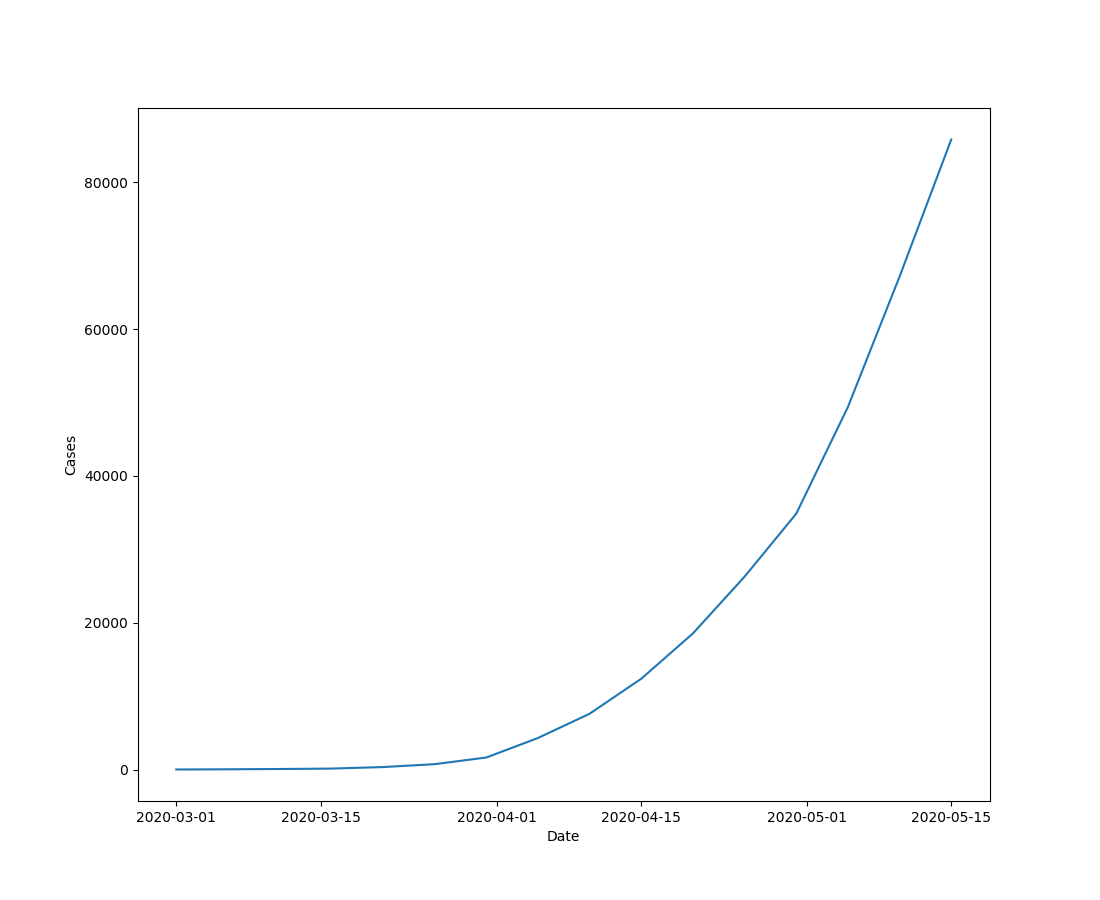
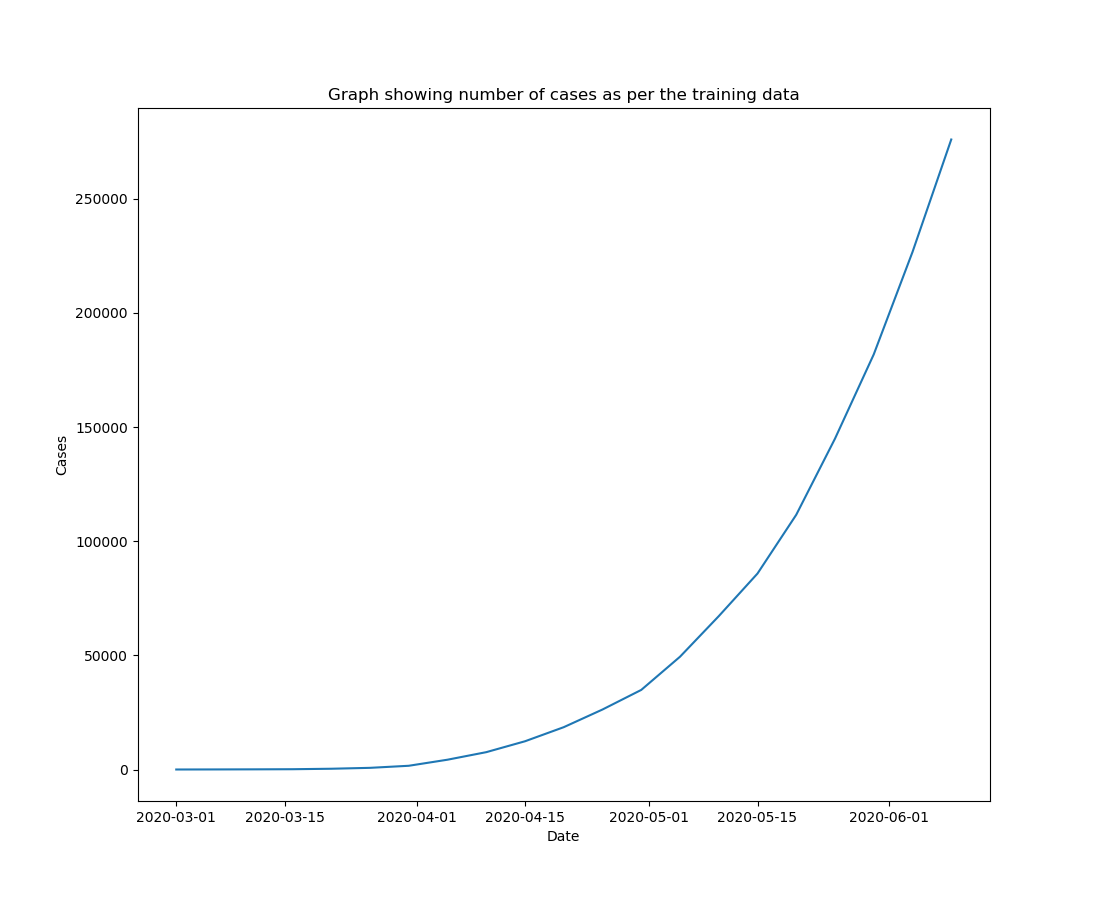
Added Date picker

diff --git a/templates/index.html b/templates/index.html
@@ -11,7 +11,7 @@
     <link href="https://fonts.googleapis.com/css2?family=Pacifico&display=swap" rel="stylesheet">
     <link rel="stylesheet" href="https://stackpath.bootstrapcdn.com/bootstrap/4.3.1/css/bootstrap.min.css"
         integrity="sha384-ggOyR0iXCbMQv3Xipma34MD+dH/1fQ784/j6cY/iJTQUOhcWr7x9JvoRxT2MZw1T" crossorigin="anonymous">
-
+    
 </head>
 
 <body>
@@ -29,10 +29,10 @@
         <div class="row">
             <form class="form-horizontal col-md-4" action="{{ url_for('predict') }}" method="POST">
                 <div class="form-group">
-                    <label class="control-label" for="email">Enter Date:</label>
+                    <label class="control-label" for="email">Select the Date:</label>
                     <div >
-                        <input autocomplete="off" class="form-control" type="text" name="date"
-                            placeholder="Enter date in yyyy-mm-dd, ex: 2020-6-12"><br>
+                        <input autocomplete="off" min="2020-03-01" class="form-control" type="date" name="date"
+                            placeholder="Enter date in yyyy-mm-dd, ex: 2020-06-12"><br>
 
                     </div>
                 </div>

diff --git a/static/styles.css b/static/styles.css
@@ -126,3 +126,8 @@ body{
 .image {
 	width: 100%;
 }
+
+input[type=date]::-webkit-inner-spin-button {
+    -webkit-appearance: none;
+    display: none;
+}

diff --git a/app.py b/app.py
@@ -4,6 +4,7 @@ import pickle
 import numpy as np
 from CovidCases import linePlot as linePlot
 from datetime import date
+
 # Load the Random Forest CLassifier model
 polynomial_features = pickle.load(open("polynomial_features.pkl", 'rb'))
 ploynomail_model = pickle.load(open("ploynomail-model.pkl", 'rb'))
@@ -29,14 +30,13 @@ def predict():
     if request.method == 'POST':
         date = str(request.form['date'])
         dates = date.split('-')
-        print("Dates", int(dates[0]))
         noOfdays = calculateDays(int(dates[0]),int(dates[1]), int(dates[2]))
         x_poly = polynomial_features.fit_transform(noOfdays.reshape(-1,1))
         my_prediction = ploynomail_model.predict(x_poly)
         predictNumber = int(my_prediction)
         print('myprediction', my_prediction)
-        fromNumber = predictNumber - 7500
-        toNumber = predictNumber + 7500
+        fromNumber = predictNumber - 1000
+        toNumber = predictNumber + 1000
         
         return render_template('result.html', fromNumber=fromNumber, toNumber=toNumber)
 

diff --git a/CovidCases.py b/CovidCases.py
@@ -11,8 +11,7 @@ from datetime import date
 import pickle
 import io
 import os
-cases = pd.read_csv('Book.csv')
-
+cases = pd.read_csv(os.path.dirname(__file__)+'/Book.csv')
 cases = cases[cases['Cases'].notna()]
 
 X = cases[['Day']]
@@ -74,6 +73,7 @@ def linePlot():
     plt.subplots(figsize=(11, 9))
     sns.lineplot(x="Date", y="Cases", data=dataframeFilter)
     bytes_image = io.BytesIO()
+    plt.title("Graph showing number of cases as per the training data")
     plt.savefig(bytes_image, format='png')
     my_path = os.path.dirname(__file__)+"/static/images"
     print(os.path.dirname(__file__))
